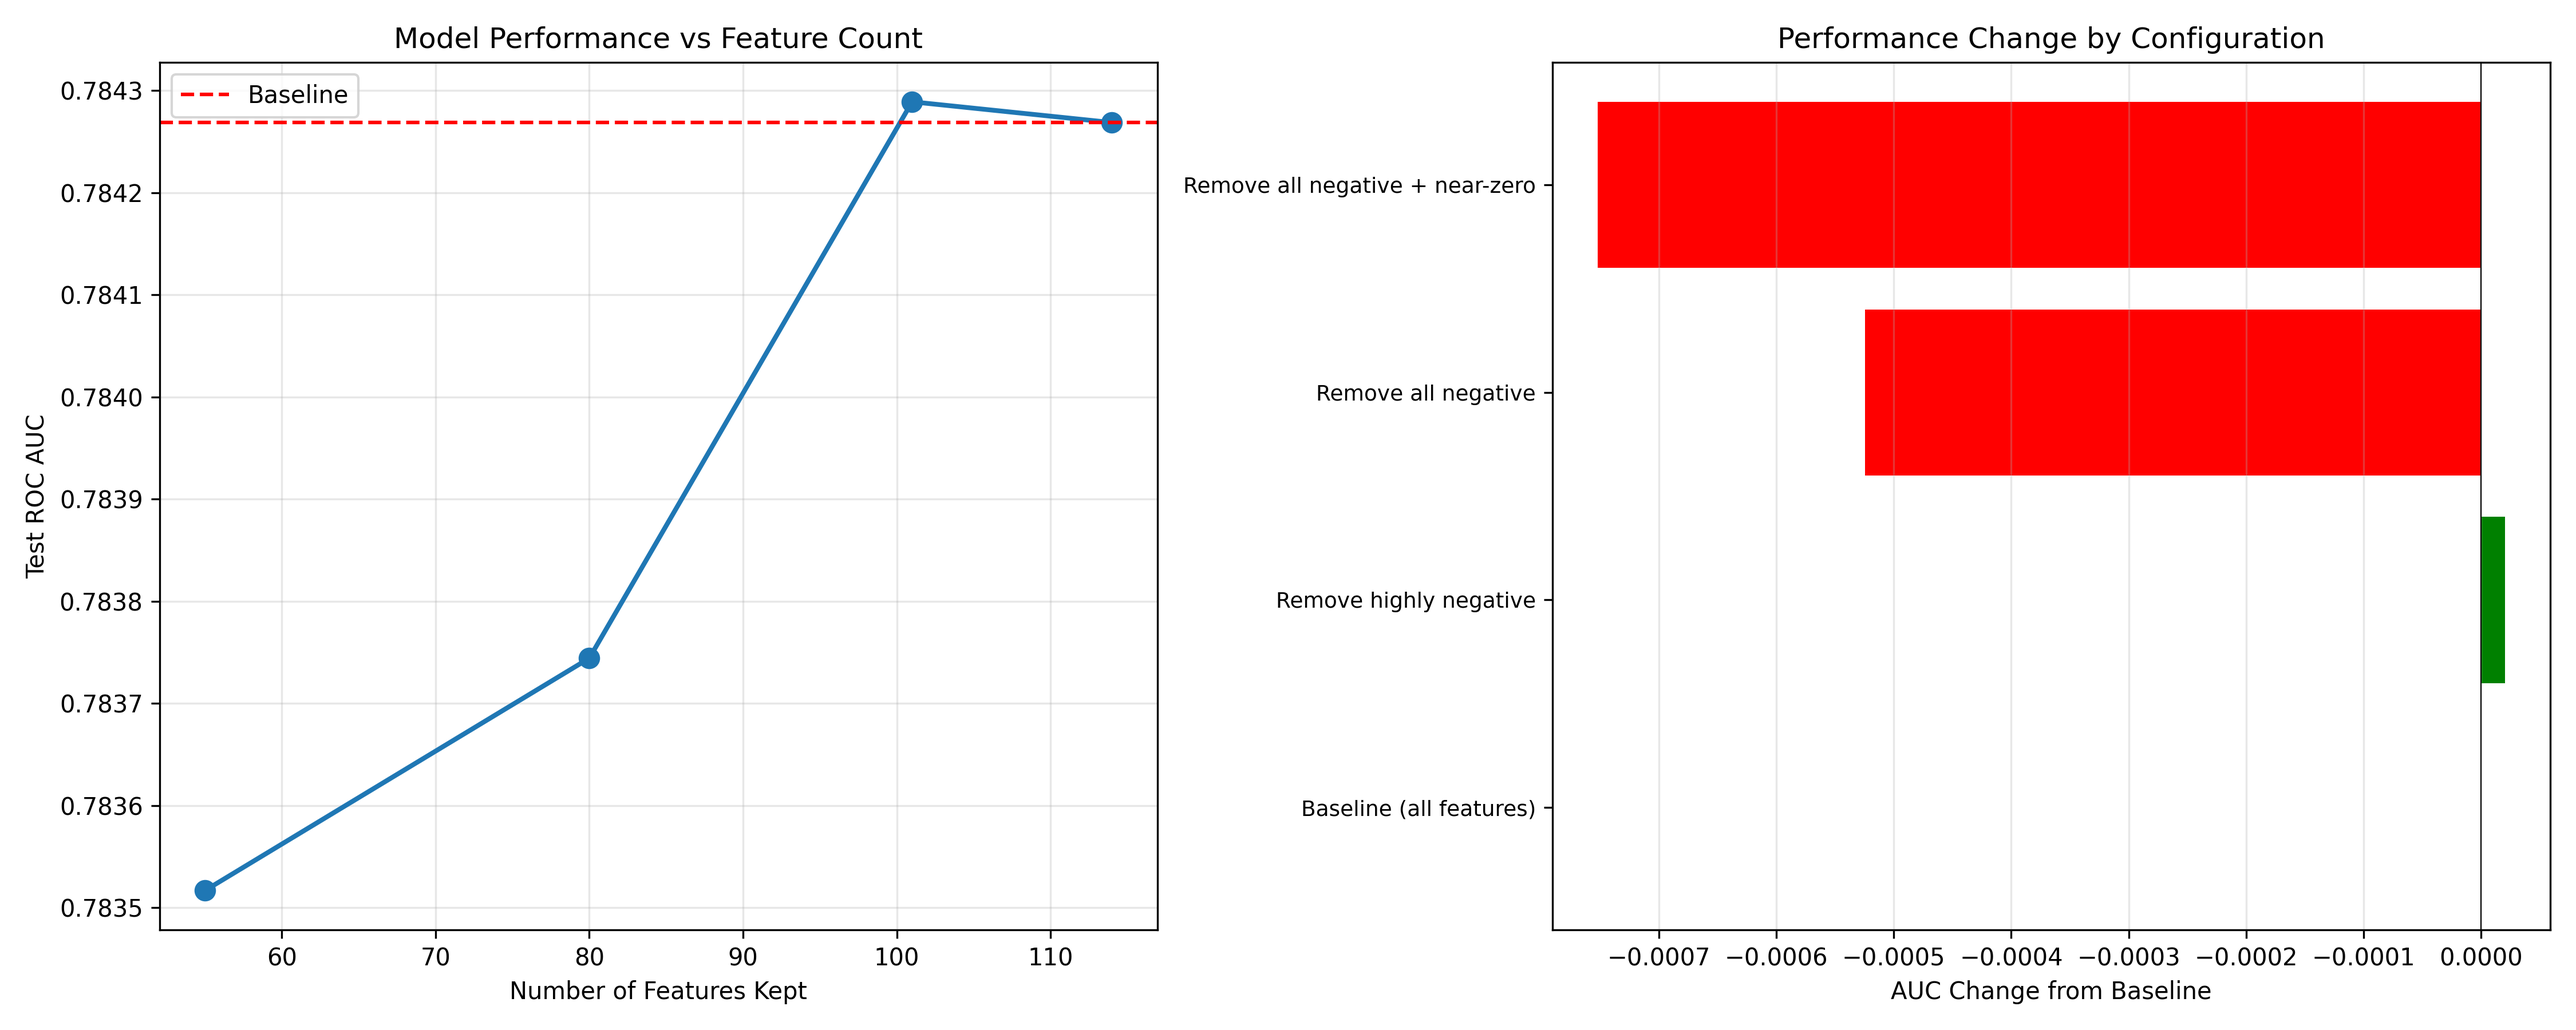
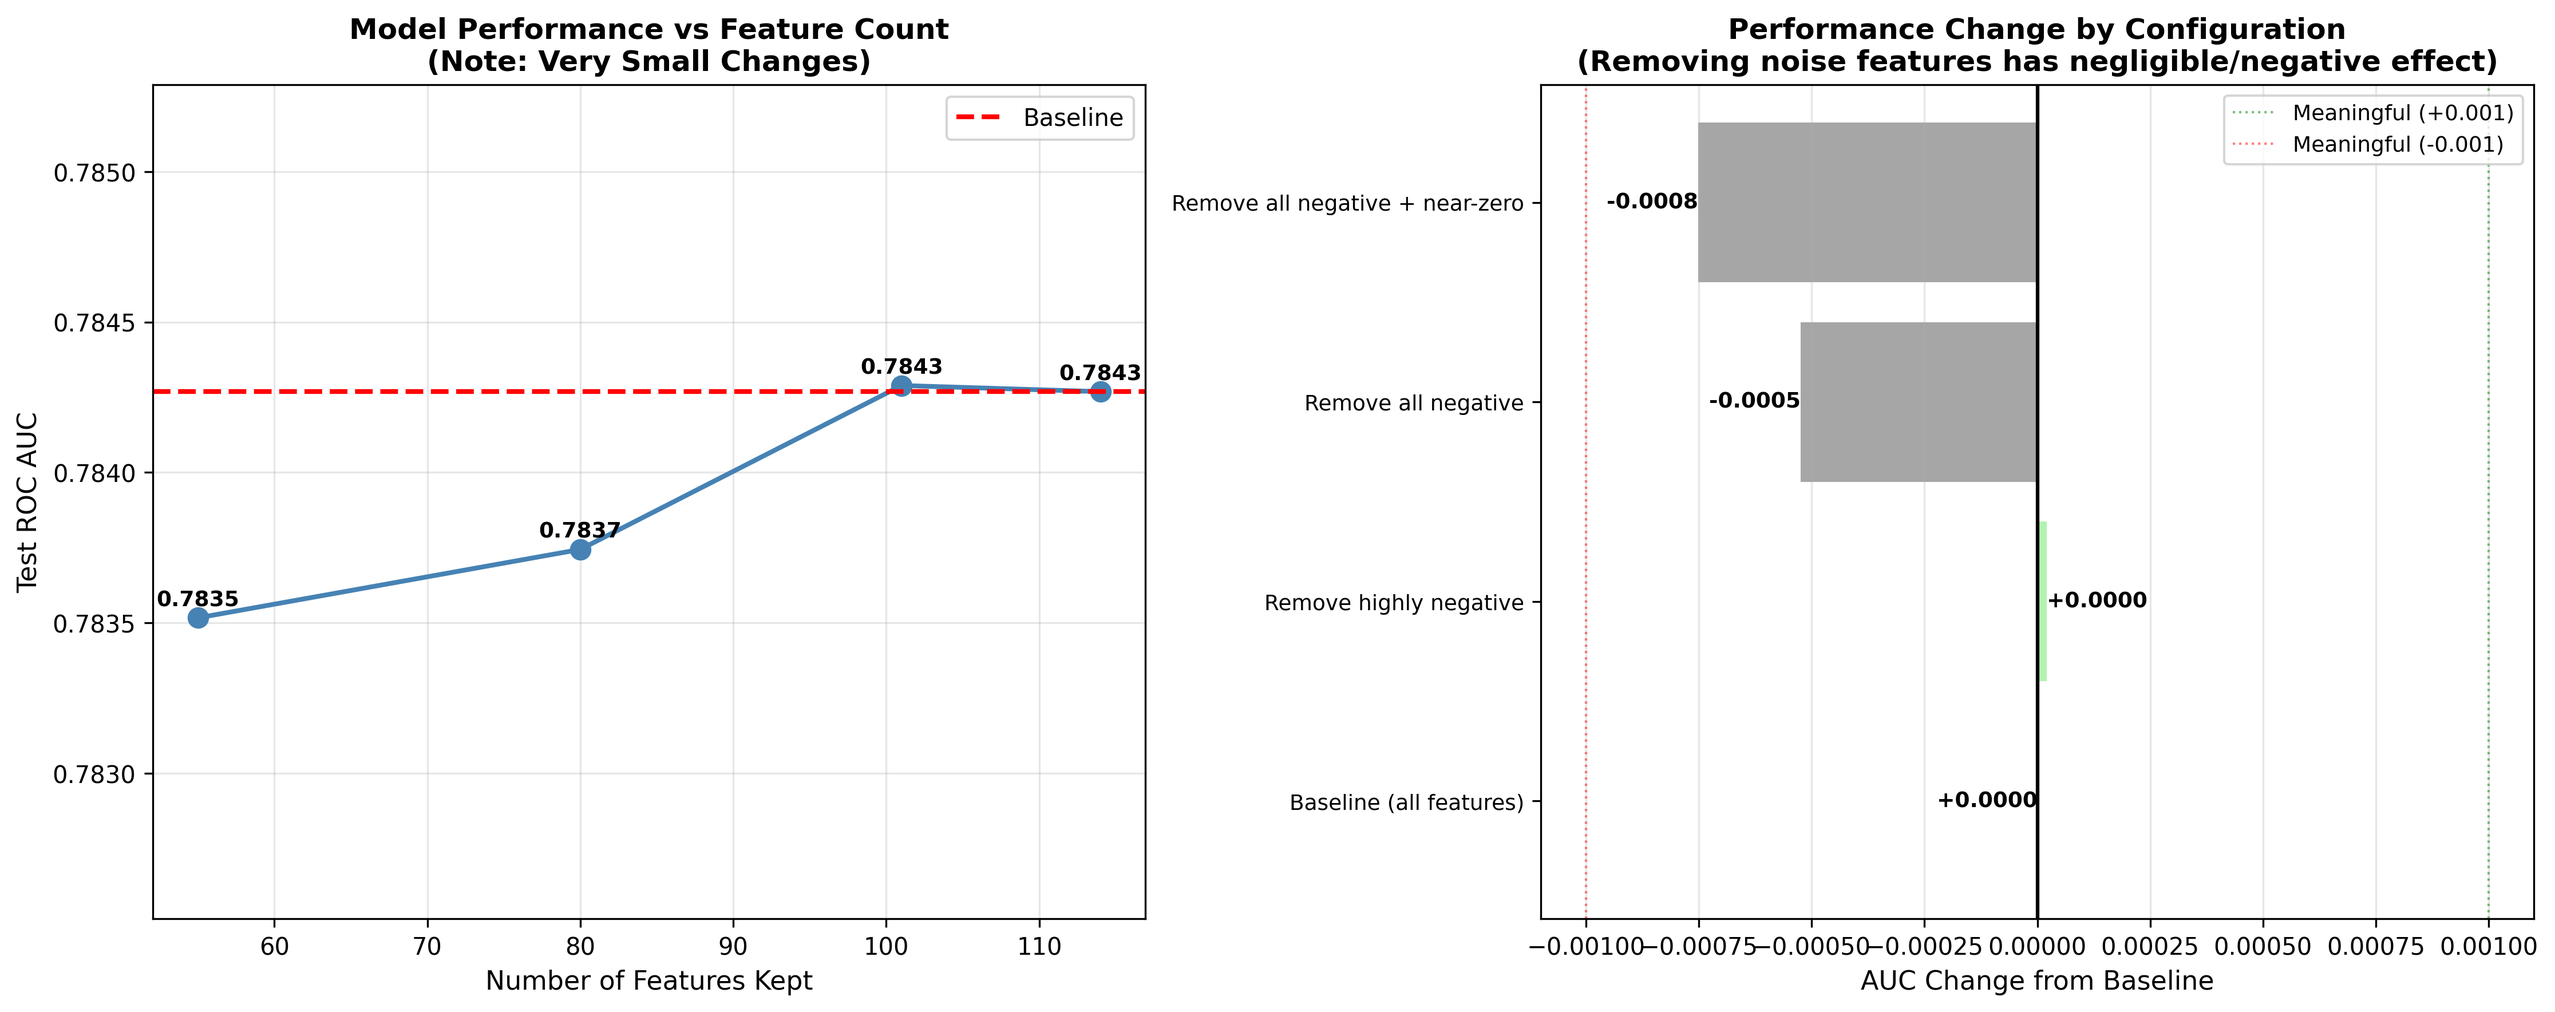
Fixed visualization for xgboost permutation importance.

diff --git a/scripts/train_xgb.py b/scripts/train_xgb.py
@@ -30,7 +30,7 @@ MODELS.mkdir(parents=True, exist_ok=True)
 # LOAD DATA
 # ================================================
 try:
-    df = pd.read_csv('data_preprocessing/data/processed/preprocessed_data.csv')
+    df = pd.read_csv('data_preprocessing/data/processed/preprocessed_data_with_features.csv')
 except FileNotFoundError:
     raise FileNotFoundError("Preprocessed CSV not found. Check your path.")
 
@@ -203,79 +203,8 @@ baseline_model = xgb.XGBClassifier(
     n_jobs=-1,
     early_stopping_rounds=50,
 
-# ================================================
-# MODEL 1: BALANCED CONFIGURATION
-# ================================================
-
-    # KEY CHANGES for balanced features:
-    # max_depth=3,              # Lower depth = can't rely on one feature
-    # min_child_weight=10,      # Need more samples per leaf
-    # learning_rate=0.05,       # Faster learning
-    # n_estimators=500,         
-    # subsample=0.7,            # Use 70% of data per tree
-    # colsample_bytree=0.5,     # Use only 50% of features per tree! KEY!
-    # colsample_bylevel=0.7,    # And 70% per level
-    
-    # # Regularization
-    # reg_alpha=1,              # L1 regularization
-    # reg_lambda=3,             # L2 regularization
-    # gamma=0.5,                # Minimum loss reduction
 )
 
-# ================================================
-# MODEL 2: VERY SHALLOW TREES
-# ================================================
-
-# final_model = xgb.XGBClassifier(
-#     objective="binary:logistic",
-#     eval_metric="auc",
-#     scale_pos_weight=scale_pos_weight,
-#     random_state=42,
-#     use_label_encoder=False,
-#     n_jobs=-1,
-#     early_stopping_rounds=50,
-    
-#     max_depth=2,              # VERY shallow
-#     min_child_weight=20,      
-#     learning_rate=0.1,        
-#     n_estimators=1000,        # More trees to compensate
-#     subsample=0.8,            
-#     colsample_bytree=0.6,     
-    
-#     reg_alpha=0.5,            
-#     reg_lambda=2,             
-#     gamma=0.3,                
-# )
-
-# ================================================
-# MODEL 3: DART (Dropouts)
-# ================================================
-
-# final_model = xgb.XGBClassifier(
-#     objective="binary:logistic",
-#     eval_metric="auc",
-#     scale_pos_weight=scale_pos_weight,
-#     random_state=42,
-#     use_label_encoder=False,
-#     n_jobs=-1,
-#     early_stopping_rounds=50,
-    
-#     booster='dart',           # Use DART instead of gbtree
-#     rate_drop=0.3,            # Drop 30% of trees each round
-#     skip_drop=0.5,            # 50% chance to skip dropout
-    
-#     max_depth=4,              
-#     min_child_weight=5,       
-#     learning_rate=0.05,       
-#     n_estimators=500,         
-#     subsample=0.8,            
-#     colsample_bytree=0.7,     
-    
-#     reg_alpha=1,              
-#     reg_lambda=2,             
-# )
-
-# ================================================
 
 
 baseline_model.fit(
@@ -597,7 +526,7 @@ print("\nTraining complete!")
 # ================================================
 print("\nGenerating visualizations...")
 
-# Plot 1: Permutation importance
+# Plot 1: Permutation importance (keep as is)
 fig, axes = plt.subplots(1, 2, figsize=(15, 6))
 
 bottom_20 = perm_df.head(20)
@@ -625,30 +554,75 @@ plt.tight_layout()
 plt.savefig(RESULTS / 'noise_detection_permutation.png', dpi=300)
 print(f"✓ Saved: {RESULTS / 'noise_detection_permutation.png'}")
 
-# Plot 2: Feature removal comparison
+# ================================================
+# Plot 2: Feature removal comparison - FIXED
+# ================================================
 fig, axes = plt.subplots(1, 2, figsize=(15, 6))
 
+# LEFT PLOT: AUC vs Features (with tight y-axis)
 axes[0].plot(results_df['features_kept'], results_df['test_auc'], 'o-', 
-             linewidth=2, markersize=8)
-axes[0].axhline(y=baseline_auc, color='r', linestyle='--', label='Baseline')
-axes[0].set_xlabel('Number of Features Kept')
-axes[0].set_ylabel('Test ROC AUC')
-axes[0].set_title('Model Performance vs Feature Count')
-axes[0].grid(True, alpha=0.3)
-axes[0].legend()
+             linewidth=2, markersize=8, color='steelblue')
+axes[0].axhline(y=baseline_auc, color='red', linestyle='--', linewidth=2, label='Baseline')
 
+# KEY FIX: Set y-axis range to show the actual small differences
+y_min = results_df['test_auc'].min() - 0.001
+y_max = results_df['test_auc'].max() + 0.001
+axes[0].set_ylim([y_min, y_max])
+
+# Add AUC values on each point
+for idx, row in results_df.iterrows():
+    axes[0].annotate(f"{row['test_auc']:.4f}", 
+                    xy=(row['features_kept'], row['test_auc']),
+                    xytext=(0, 5), textcoords='offset points',
+                    ha='center', fontsize=9, fontweight='bold')
+
+axes[0].set_xlabel('Number of Features Kept', fontsize=11)
+axes[0].set_ylabel('Test ROC AUC', fontsize=11)
+axes[0].set_title('Model Performance vs Feature Count\n(Note: Very Small Changes)', 
+                 fontsize=12, fontweight='bold')
+axes[0].grid(True, alpha=0.3)
+axes[0].legend(fontsize=10)
+
+# RIGHT PLOT: Improvement bars with better visualization
 improvement = results_df['improvement']
-colors = ['green' if x >= 0 else 'red' for x in improvement]
-axes[1].barh(range(len(results_df)), improvement, color=colors)
+
+# Color coding: Only green if improvement > 0.001 (meaningful)
+colors = []
+for imp in improvement:
+    if imp > 0.001:
+        colors.append('green')      # Meaningful improvement
+    elif imp > 0:
+        colors.append('lightgreen') # Negligible positive
+    elif imp > -0.001:
+        colors.append('gray')       # Negligible negative
+    else:
+        colors.append('red')        # Meaningful degradation
+
+bars = axes[1].barh(range(len(results_df)), improvement, color=colors, alpha=0.7)
+
+# Add value labels on bars
+for i, (bar, imp) in enumerate(zip(bars, improvement)):
+    width = bar.get_width()
+    label_x = width if width > 0 else width
+    axes[1].text(label_x, bar.get_y() + bar.get_height()/2.,
+                f'{imp:+.4f}',
+                ha='left' if width > 0 else 'right',
+                va='center', fontsize=9, fontweight='bold')
+
 axes[1].set_yticks(range(len(results_df)))
 axes[1].set_yticklabels(results_df['config'], fontsize=9)
-axes[1].axvline(x=0, color='black', linestyle='-', linewidth=0.5)
-axes[1].set_xlabel('AUC Change from Baseline')
-axes[1].set_title('Performance Change by Configuration')
+axes[1].axvline(x=0, color='black', linestyle='-', linewidth=1.5)
+axes[1].axvline(x=0.001, color='green', linestyle=':', linewidth=1, alpha=0.5, label='Meaningful (+0.001)')
+axes[1].axvline(x=-0.001, color='red', linestyle=':', linewidth=1, alpha=0.5, label='Meaningful (-0.001)')
+
+axes[1].set_xlabel('AUC Change from Baseline', fontsize=11)
+axes[1].set_title('Performance Change by Configuration\n(Removing noise features has negligible/negative effect)', 
+                 fontsize=12, fontweight='bold')
 axes[1].grid(True, alpha=0.3, axis='x')
+axes[1].legend(fontsize=9)
 
 plt.tight_layout()
-plt.savefig(RESULTS / 'feature_removal_comparison.png', dpi=300)
+plt.savefig(RESULTS / 'feature_removal_comparison.png', dpi=300, bbox_inches='tight')
 print(f"✓ Saved: {RESULTS / 'feature_removal_comparison.png'}")
 
 print("\n" + "="*60)

diff --git a/scripts/compare_and_ensemble.py b/scripts/compare_and_ensemble.py
@@ -123,6 +123,31 @@ print(f"Improvement over best single model: {best_auc - best_single_auc:+.4f}")
 print(f"{'='*60}")
 
 # ================================================
+# DIAGNOSTICS - Check prediction distribution
+# ================================================
+print("\n" + "="*60)
+print("PREDICTION DIAGNOSTICS")
+print("="*60)
+
+print(f"\nBest ensemble: {best_name}")
+print(f"Raw prediction range: [{best_predictions.min():.4f}, {best_predictions.max():.4f}]")
+print(f"Mean: {best_predictions.mean():.4f}")
+
+# Normalize if needed
+if best_name == 'Rank Average' or best_predictions.max() > 10:
+    print("  → Normalizing to [0,1] range...")
+    best_predictions_normalized = (best_predictions - best_predictions.min()) / \
+                                  (best_predictions.max() - best_predictions.min())
+    print(f"  After normalization: [{best_predictions_normalized.min():.4f}, {best_predictions_normalized.max():.4f}]")
+else:
+    best_predictions_normalized = best_predictions.copy()
+    print("  ✓ Already in probability range")
+
+print(f"\nPrediction range: [0.0000, 1.0000]")
+print(f"Predictions > 0.5: {(best_predictions_normalized > 0.5).sum()} / {len(best_predictions_normalized)}")
+print(f"Mean prediction: {best_predictions_normalized.mean():.4f}")
+
+# ================================================
 # DETAILED EVALUATION OF BEST ENSEMBLE
 # ================================================
 print("\n" + "="*60)
@@ -132,11 +157,8 @@ print("="*60)
 # Find optimal threshold
 from sklearn.metrics import precision_recall_curve
 
-# Rank average returns ranks, not probabilities, so normalize to [0,1]
-if best_name == 'Rank Average':
-    best_predictions = (best_predictions - best_predictions.min()) / (best_predictions.max() - best_predictions.min())
+precision, recall, thresholds = precision_recall_curve(y_test, best_predictions_normalized)
 
-precision, recall, thresholds = precision_recall_curve(y_test, best_predictions)
 if thresholds.size > 0:
     f1_scores = 2 * (precision[:-1] * recall[:-1]) / (precision[:-1] + recall[:-1] + 1e-10)
     optimal_idx = np.argmax(f1_scores)
@@ -146,9 +168,9 @@ else:
 
 print(f"\nOptimal threshold: {optimal_threshold:.3f}")
 
-# Predictions with default and optimal thresholds
-y_pred_default = (best_predictions >= 0.5).astype(int)
-y_pred_optimal = (best_predictions >= optimal_threshold).astype(int)
+# Predictions with both thresholds (using normalized predictions)
+y_pred_default = (best_predictions_normalized >= 0.5).astype(int)
+y_pred_optimal = (best_predictions_normalized >= optimal_threshold).astype(int)
 
 print("\n--- With Default Threshold (0.5) ---")
 print(classification_report(y_test, y_pred_default))

diff --git a/scripts/test_baseline.py b/scripts/test_baseline.py
@@ -1,4 +1,4 @@
-# Save this as: beat_baseline_single.py
+# Run: python scripts/test_baseline.py
 
 import pandas as pd
 import numpy as np
@@ -9,9 +9,9 @@ import xgboost as xgb
 # Load data
 df_original = pd.read_csv('./data_preprocessing/data/processed/preprocessed_data.csv')
 
-df = pd.read_csv('./data_preprocessing/data/processed/preprocessed_data_with_features.csv')
-y = df['default'].astype(int)
-X = df.drop(columns=['default'])
+# df = pd.read_csv('./data_preprocessing/data/processed/preprocessed_data_with_features.csv')
+y = df_original['default'].astype(int)
+X = df_original.drop(columns=['default'])
 
 # Use EXACT same split as original
 X_train, X_test, y_train, y_test = train_test_split(
@@ -68,8 +68,3 @@ print("="*80)
 print(f"Test AUC: {test_auc:.4f}")
 print(f"Original baseline: 0.7843")
 print(f"Difference: {(test_auc - 0.7843)*100:+.2f}%")
-
-if test_auc > 0.7843:
-    print("\n🎉 SUCCESS! Beat the baseline!")
-else:
-    print("\n😔 Did not beat baseline. Try Option B (Optuna)")
